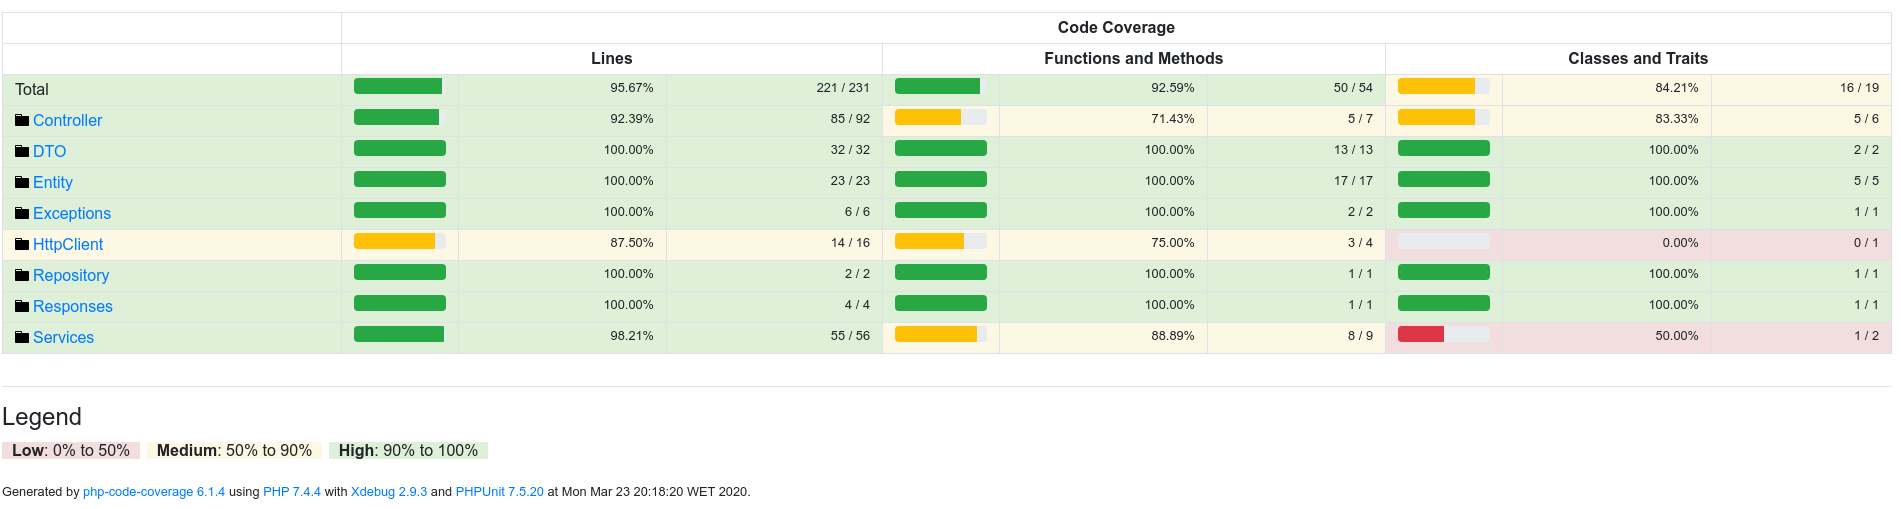
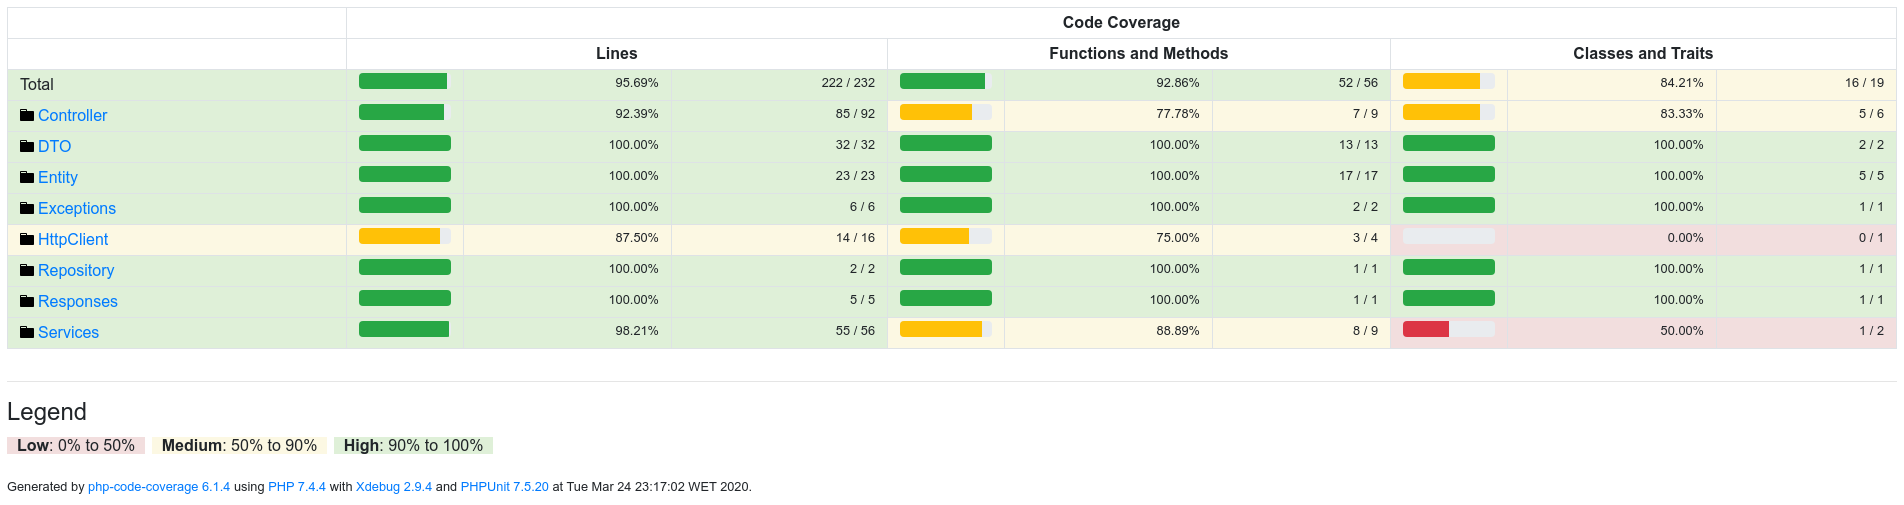
fix(Refactor): Interfaces and Responses

diff --git a/app/src/Services/QuotationService.php b/app/src/Services/QuotationService.php
@@ -3,9 +3,10 @@
 namespace App\Services;
 
 use App\DTO\QuotesDTO;
+use App\Interfaces\QuotationServiceInterface;
 use Symfony\Component\DependencyInjection\ContainerBuilder;
 
-class QuotationService
+class QuotationService implements QuotationServiceInterface
 {
     private $quote;
     private $container;
@@ -27,7 +28,7 @@ class QuotationService
             : 0;
     }
 
-    public function setAbiCodePremium()
+    public function setAbiCodePremium(): void
     {
         $this->repository = $this->container->get('AbiCodeRating');
         $ratingValue = $this->repository->createQueryBuilder('t')
@@ -39,7 +40,7 @@ class QuotationService
         $this->valuePremium = $value * $this->valuePremium;
     }
 
-    public function setAgePremium()
+    public function setAgePremium(): void
     {
         $this->repository = $this->container->get('AgeRating');
         $ratingValue = $this->repository->find($this->quote->getAge());
@@ -47,7 +48,7 @@ class QuotationService
         $this->valuePremium = $value * $this->valuePremium;
     }
 
-    public function setPostcodePremium()
+    public function setPostcodePremium(): void
     {
         $this->repository = $this->container->get('PostcodeRating');
         $ratingValue = $this->repository->createQueryBuilder('t')
@@ -59,13 +60,13 @@ class QuotationService
         $this->valuePremium = $value * $this->valuePremium;
     }
 
-    public function getAbiCode(string $regNo)
+    public function getAbiCode(string $regNo): string
     {
         $serviceVehicle = new VehicleRegistrationService();
         return $serviceVehicle->getAbiCode($regNo);
     }
 
-    public function getQuotation()
+    public function getQuotation(): QuotesDTO
     {
         if (!$this->quote->getRegNo()) {
             return $this->quote;

diff --git a/app/src/Controller/MockApiController.php b/app/src/Controller/MockApiController.php
@@ -2,9 +2,9 @@
 
 namespace App\Controller;
 
+use App\Responses\RestJsonResponse;
 use Symfony\Component\HttpFoundation\Response;
 use Symfony\Component\Routing\Annotation\Route;
-use Symfony\Component\HttpFoundation\JsonResponse;
 use Symfony\Bundle\FrameworkBundle\Controller\AbstractController;
 
 /**
@@ -12,7 +12,7 @@ use Symfony\Bundle\FrameworkBundle\Controller\AbstractController;
  */
 class MockApiController extends AbstractController
 {
-    public function __invoke(string $regNo): JsonResponse
+    public function __invoke(string $regNo): RestJsonResponse
     {
         $abiCodes = [];
         $abiCodes['regno-1'] = "22529902";
@@ -23,14 +23,11 @@ class MockApiController extends AbstractController
         }
         $response = isset($abiCodes[$regNo]) ? $abiCodes[$regNo] : 'Not Found';
 
-        return new JsonResponse(
+        return new RestJsonResponse(
             [
                 $response
             ],
-            Response::HTTP_OK,
-            [
-                'Content-Type' => 'application/json; charset=UTF-8'
-            ]
+            Response::HTTP_OK
         );
     }
 }

diff --git a/app/src/Controller/OpenAPIController.php b/app/src/Controller/OpenAPIController.php
@@ -2,9 +2,9 @@
 
 namespace App\Controller;
 
+use App\Responses\RestJsonResponse;
 use Symfony\Component\HttpFoundation\Response;
 use Symfony\Component\Routing\Annotation\Route;
-use Symfony\Component\HttpFoundation\JsonResponse;
 use Symfony\Bundle\FrameworkBundle\Controller\AbstractController;
 
 /**
@@ -15,13 +15,9 @@ class OpenAPIController extends AbstractController
     public function __invoke()
     {
         $applicationSpecifics = file_get_contents(__DIR__ . '/../../public/openapi.json');
-        return new JsonResponse(
-            $applicationSpecifics,
-            Response::HTTP_OK,
-            [
-                'Content-Type' => 'application/json; charset=UTF-8'
-            ],
-            true
+        return new RestJsonResponse(
+            json_decode($applicationSpecifics, true),
+            Response::HTTP_OK
         );
     }
 }

diff --git a/app/src/Services/VehicleRegistrationService.php b/app/src/Services/VehicleRegistrationService.php
@@ -3,10 +3,11 @@
 namespace App\Services;
 
 use App\HttpClient\BasicClient;
+use App\Interfaces\HttpClientInterface;
 use Symfony\Component\HttpFoundation\Response;
-use App\HttpClient\Interfaces\HttpClientInterface;
+use App\Interfaces\VehicleRegistrationServiceInterface;
 
-class VehicleRegistrationService
+class VehicleRegistrationService implements VehicleRegistrationServiceInterface
 {
     private $httpClient;
 
@@ -25,7 +26,7 @@ class VehicleRegistrationService
         
         $abiCode = '';
         if ($response['code'] == Response::HTTP_OK) {
-            $abiCode = $response['response'][0];
+            $abiCode = $response['response']['data'][0];
         }
         return $abiCode;
     }

diff --git a/app/src/Responses/RestJsonResponse.php b/app/src/Responses/RestJsonResponse.php
@@ -2,13 +2,15 @@
 
 namespace App\Responses;
 
-use App\Responses\Interfaces\RestResponseInterface;
+use App\Interfaces\RestResponseInterface;
+use Symfony\Component\HttpFoundation\Response;
 use Symfony\Component\HttpFoundation\JsonResponse;
 
 class RestJsonResponse extends JsonResponse implements RestResponseInterface
 {
-    public function __construct(array $data, int $statusCode)
+    public function __construct(array $data, int $statusCode = null)
     {
+        $statusCode = $statusCode ?? Response::HTTP_CREATED;
         parent::__construct(
             [
                 'data' => $data

diff --git a/app/tests/Feature/MockApiControllerTest.php b/app/tests/Feature/MockApiControllerTest.php
@@ -36,7 +36,7 @@ class MockApiControllerTest extends WebTestCase
         );
         
         $mock = json_decode($this->client->getResponse()->getContent());
-        $this->assertEquals('22529902', $mock[0]);
+        $this->assertEquals('22529902', $mock->data[0]);
     }
     
 
@@ -62,6 +62,6 @@ class MockApiControllerTest extends WebTestCase
         );
         
         $mock = json_decode($this->client->getResponse()->getContent());
-        $this->assertEquals('Not Found', $mock[0]);
+        $this->assertEquals('Not Found', $mock->data[0]);
     }
 }

diff --git a/app/src/Interfaces/QuotationServiceInterface.php b/app/src/Interfaces/QuotationServiceInterface.php
@@ -1,0 +1,12 @@
+<?php
+
+namespace App\Interfaces;
+
+interface QuotationServiceInterface
+{
+    public function setAbiCodePremium(): void;
+    public function setAgePremium(): void;
+    public function setPostcodePremium(): void;
+    public function getAbiCode(string $regNo): string;
+    public function getQuotation();
+}

diff --git a/app/src/Controller/PostQuotesController.php b/app/src/Controller/PostQuotesController.php
@@ -62,8 +62,7 @@ class PostQuotesController extends AbstractController
                 'regNo' => $quote->getRegNo(),
                 'abiCode' => $quote->getAbiCode(),
                 'premium' => number_format($quote->getPremium(), 2),
-            ],
-            Response::HTTP_CREATED
+            ]
         );
     }
 

diff --git a/app/src/Controller/DefaultController.php b/app/src/Controller/DefaultController.php
@@ -18,8 +18,7 @@ class DefaultController extends AbstractController
             [
                 'status' => 'pass',
                 'description' => 'Quotation System'
-            ],
-            Response::HTTP_CREATED
+            ]
         );
     }
 }

diff --git a/app/src/HttpClient/BasicClient.php b/app/src/HttpClient/BasicClient.php
@@ -4,7 +4,7 @@ namespace App\HttpClient;
 
 use Exception;
 use Symfony\Component\HttpClient\HttpClient;
-use App\HttpClient\Interfaces\HttpClientInterface;
+use App\Interfaces\HttpClientInterface;
 
 /**
  * @SuppressWarnings(PHPMD.StaticAccess)

diff --git a/app/src/Controller/GetQuotesController.php b/app/src/Controller/GetQuotesController.php
@@ -33,7 +33,6 @@ class GetQuotesController extends AbstractController
 
         return new RestJsonResponse(
             $response,
-            Response::HTTP_CREATED
         );
     }
 }

diff --git a/app/src/Interfaces/RestResponseInterface.php b/app/src/Interfaces/RestResponseInterface.php
@@ -1,0 +1,8 @@
+<?php
+
+namespace App\Interfaces;
+
+interface RestResponseInterface
+{
+    public function __construct(array $data, int $statusCode = null);
+}
